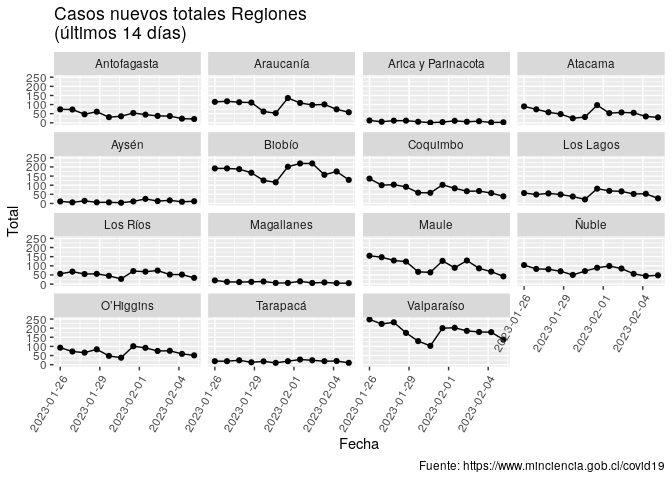
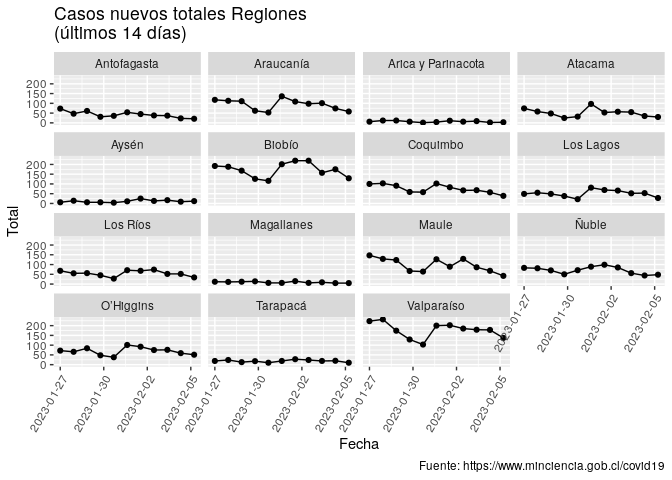
Re-build Rmarkdown files

diff --git a/README.md b/README.md
@@ -3,7 +3,7 @@
 
 Ejemplo de uso de total\_casos de COVID recopilados por el Ministerio de
 Ciencia de Chile <https://www.minciencia.gob.cl/covid19>. Última
-actualización: 2023-02-08
+actualización: 2023-02-09
 
 ## Visualización desde el comienzo de la pandemia
 
